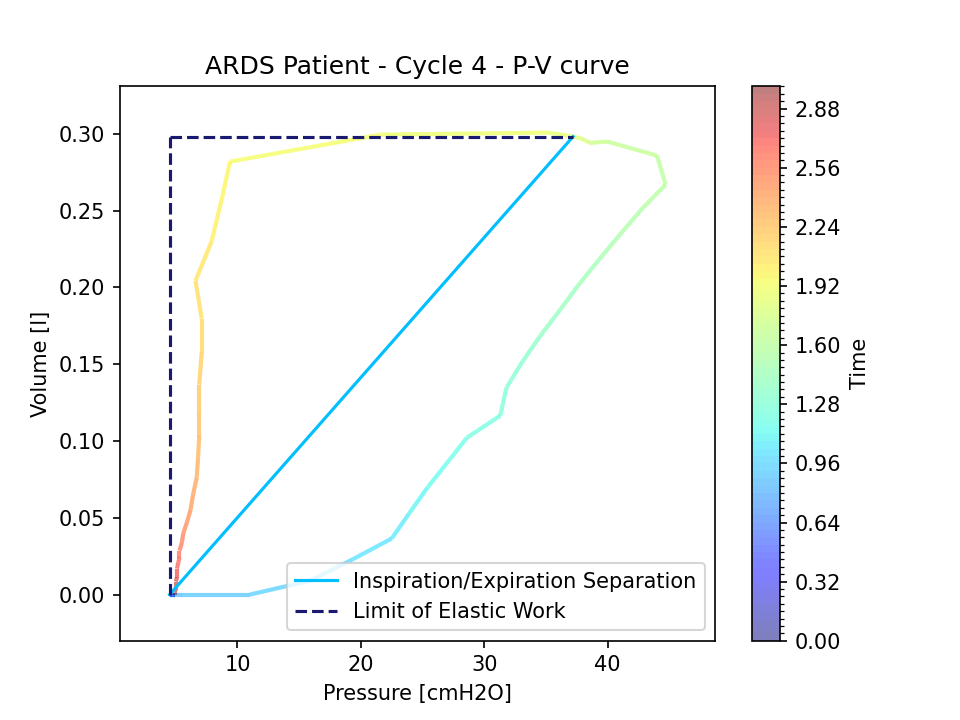
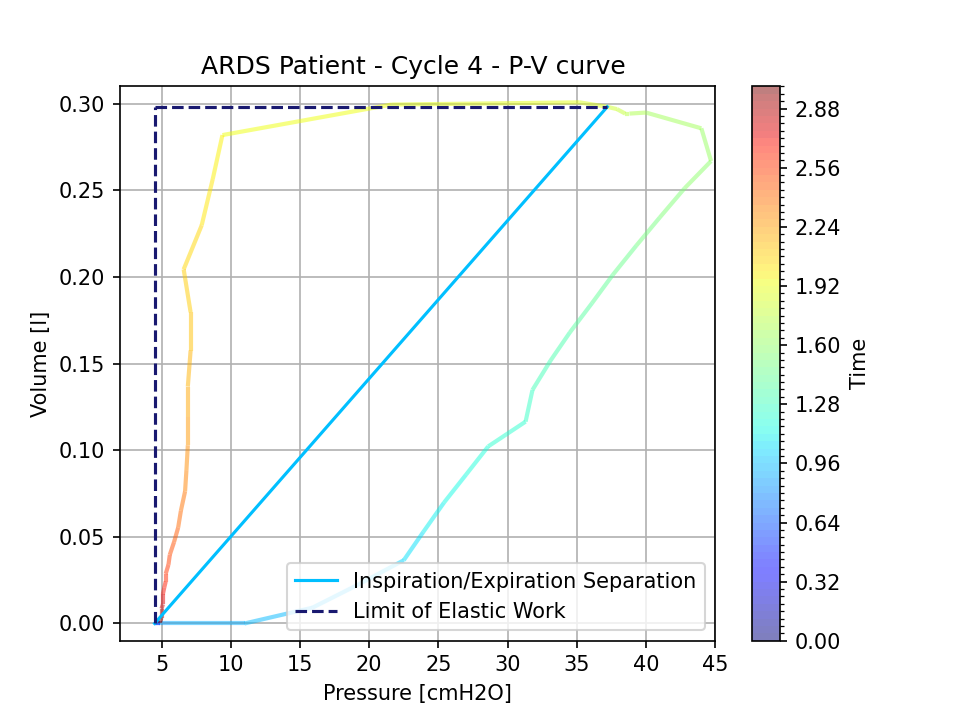
xlim graphs

diff --git a/test.py b/test.py
@@ -38,27 +38,9 @@ def extract_cycles(data):
                        'P' : P[filtered_V_indices[i]:filtered_V_indices[i+1]+1],
                        'Q' : Q[filtered_V_indices[i]:filtered_V_indices[i+1]+1],
                        'V' : V[filtered_V_indices[i]:filtered_V_indices[i+1]+1]})
-    """
-    plt.figure()
-    plt.plot(t, V)
-    for k in range(len(filtered_V_indices)):
-        plt.axvline(t[filtered_V_indices[k]], color='red')
-    plt.show()
 
-    plt.figure()
-    plt.plot(t, Q)
-    for k in range(len(filtered_V_indices)):
-        plt.axvline(t[filtered_V_indices[k]], color='red')
-    plt.show()
-
-    plt.figure()
-    plt.plot(t, P)
-    for k in range(len(filtered_V_indices)):
-        plt.axvline(t[filtered_V_indices[k]], color='red')
-    plt.show()
-    """
     return cycles
-def plot_time_curves(data, name = "salut", title="Data",alpha_value = 0.5, x_label = "X", y_label ="Y", grid = True):
+def get_works(data, title="Data",alpha_value = 0.5, x_label = "X", y_label ="Y", grid = True):
     P = data['P']
     V = data['V']
     Q = data['Q']
@@ -87,18 +69,48 @@ def plot_time_curves(data, name = "salut", title="Data",alpha_value = 0.5, x_lab
     plt.xlabel(x_label)
     plt.ylabel(y_label)
     plt.title(title)
+
     minP = np.argmin(P)
-    index_inspi = np.where(Q >= 0)[0]
+    minV = 0
+    index_inspi = np.where(Q >= 0)
+    index_inspi = index_inspi[0]
     V_Q_0 = V[index_inspi[-1]]
     P_Q_0 = P[index_inspi[-1]]
-    ax.plot([P[minP], P_Q_0],  [0, V_Q_0], label = 'Inspiration/Expiration Separation', color ="deepskyblue")
-    ax.plot([P[minP], P[minP]], [0, V_Q_0], label = 'Limit of Elastic Work', color = "midnightblue", linestyle = 'dashed')
-    ax.plot([P[minP], P_Q_0], [V_Q_0, V_Q_0], color = "midnightblue", linestyle = 'dashed')
+    P_inspi = P[index_inspi]
+    V_inspi = V[index_inspi]
+
+
+    
+    a,b = np.polyfit([P[minP], P_Q_0],  [0, V_Q_0], deg = 1)
+
+    px = V_inspi/a - b
+    vy = P_inspi*a +b
+    
+    interpolation_1 = interp1d([P[minP],P_Q_0],[0,V_Q_0], kind = 'linear',fill_value="extrapolate")
+    p_bas = []
+    v_bas =  []
+    for i in range(len(V)):
+            x = interpolation_1(P[i])
+            if V[i] <=x:
+                p_bas.append(P[i])
+                v_bas.append(V[i])
+
+    tri_pression= sorted(zip(p_bas,v_bas))
+    p_bas,v_bas = zip(*tri_pression)
+    v_interp = interpolation_1(p_bas)
+
+    resistive_inspiratory_work = np.trapz(v_interp-v_bas, x=p_bas)
+
+    equation_label = f"y = {a:.3f}x + {b:.3f}"
+    ax.plot([P[minP], P_Q_0],  [0, V_Q_0], label = equation_label, color ="deepskyblue")
     ax.legend(loc = 'lower right')
-    plt.xlim(2,45)
-    plt.ylim(-0.01, 0.31)
-    plt.grid()
-    plt.savefig(name, dpi = 150)
+
+    RIW = np.trapz(P_inspi, V_inspi-vy)
+    REW = np.trapz(P,V) - RIW
+    plt.plot(P_inspi, V_inspi,color = "mediumpurple")
+    plt.fill_between(P,V, color = "lavender")
+    plt.fill_between(P_inspi, V_inspi, color = "mediumpurple", label = 'RIW')
+    plt.legend(loc = 'lower right')
     plt.show()
     plt.figure(2)
     print("---VQ loop---")
@@ -123,59 +135,51 @@ def plot_time_curves(data, name = "salut", title="Data",alpha_value = 0.5, x_lab
     plt.xlabel(x_label)
     plt.ylabel(y_label)
     plt.title(title)
-    ax.plot([0,V_Q_0],  [0, 0], color ="deepskyblue", label ='Inspiration/Expiration Separation' )
-    plt.scatter(V[np.argmin(Q)],np.min(Q), color = 'brown', label = 'Peak Expiratory Flow')
-    plt.legend(loc = 'lower left')
-    plt.xlim(-0.03, 0.33)
-    plt.ylim(-1,0.6)
-    plt.grid()
+    ax.plot([0,V_Q_0],  [0, 0], color ="deepskyblue")
     plt.show()
-
-def get_RIW_REW_EW(data):
-    P = data['P']
-    V = data['V']
-    Q = data['Q']
-    t = data['t'] - data['t'][0]
-
-    minP = np.argmin(P)
-    index_inspi = np.where(Q >= 0)[0]
-
-    V_Q_0 = V[index_inspi[-1]]
-    P_Q_0 = P[index_inspi[-1]]
-    base = np.abs(P_Q_0 - P[minP])
-    print(base)
     
-    EW = (base * V_Q_0)/2
 
-    P_expi = P[index_inspi[-1]:]
-    V_expi = V[index_inspi[-1]:]   
+    return resistive_inspiratory_work, RIW, REW
 
-    a,b = np.polyfit([P[minP], P_Q_0],  [0, V_Q_0], deg = 1)
-    y = P_expi*a +b
-    V_expi_adjusted = y-V_expi
-    REW = np.abs(np.trapz(V_expi_adjusted, P_expi))
-  
-    RIW = np.abs(np.trapz(V, P)) -(REW)
-    return RIW, REW, EW
+cycles = extract_cycles(Control_data)
 
-def get_peak_expiratory_flow(data):
-    Q = data['Q']
-    return np.min(Q)
+resistive, RIW, REW = get_works(cycles[3])
+print(resistive, RIW, REW)
 
-def get_tidal_volume(data):
-    Q = data['Q']
-    V = data['V']
-    index_inspi = np.where(Q >= 0)[0]
-    V_Q_0 = V[index_inspi[-1]]
-    return V_Q_0
+def plot_both_curves(data_list, names=["Patient 1", "Patient 2"], title="Data", alpha_value=0.5, x_label="V", y_label="Q", grid=True):
+    plt.figure(figsize=(8, 6))
+    plt.grid(grid)
+    cmap = plt.cm.jet  # Colormap
 
+    for idx, data in enumerate(data_list):
+        P = data['P']
+        V = data['V']
+        Q = data['Q']
+        t = data['t'] - data['t'][0]
 
-cycles = extract_cycles(ARDS_data)
-cycles2 = extract_cycles(Control_data)
-plot_time_curves(cycles[3], name = "ARDScontrol.png", grid = True, title = "ARDS Patient - Cycle 4 - P-V curve ", x_label= "Pressure [cmH2O]", y_label= "Volume [l]")
-Qmin = []
-tidal_volumes = []
-for i in range(len(cycles)):
-    Qmin.append(get_peak_expiratory_flow(cycles[i]))
-    tidal_volumes.append(get_tidal_volume(cycles[i]))
+        # Index of the last inspiration point
+        index_inspi = np.where(Q >= 0)[0]
+        V_Q_0 = V[index_inspi[-1]]
 
+        # Create a colormap that represents the gradient of time
+        norm = plt.Normalize(min(t), max(t))
+        colors = cmap(norm(t))
+
+        # Create a LineCollection object with a color gradient
+        points = np.array([V, Q]).T.reshape(-1, 1, 2)
+        segments = np.concatenate([points[:-1], points[1:]], axis=1)
+        lc = LineCollection(segments, cmap=ListedColormap(colors), norm=BoundaryNorm(t, len(t)), linewidth=2, alpha=alpha_value)
+        lc.set_array(t)
+
+        # Plot the trajectory
+        plt.gca().add_collection(lc)
+
+        # Plot the inspiration/expiration separation and peak expiratory flow
+        plt.plot([0, V_Q_0], [0, 0], color="deepskyblue")
+        plt.scatter(V[np.argmin(Q)], np.min(Q), color='brown')
+
+    plt.colorbar(lc, label='Time')
+    plt.xlabel(x_label)
+    plt.ylabel(y_label)
+    plt.title(title)
+    plt.show()
